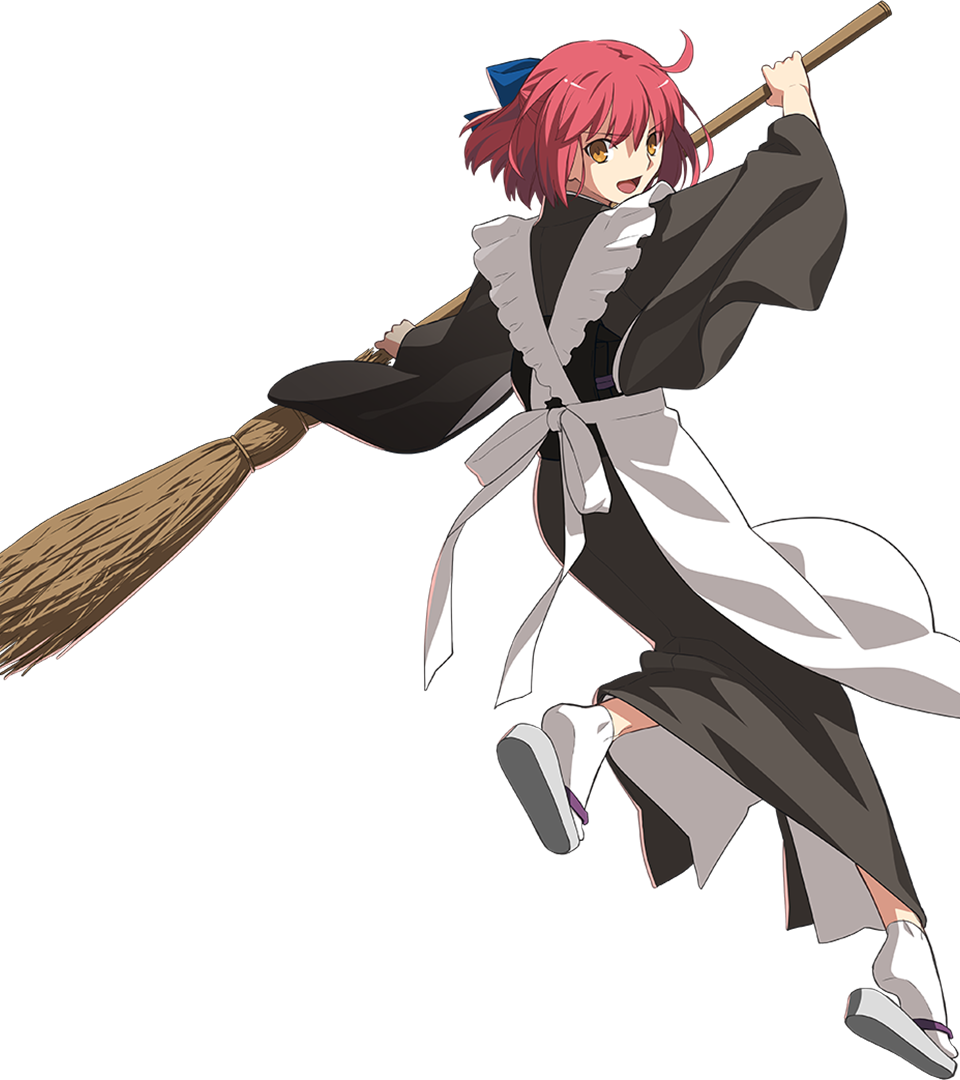
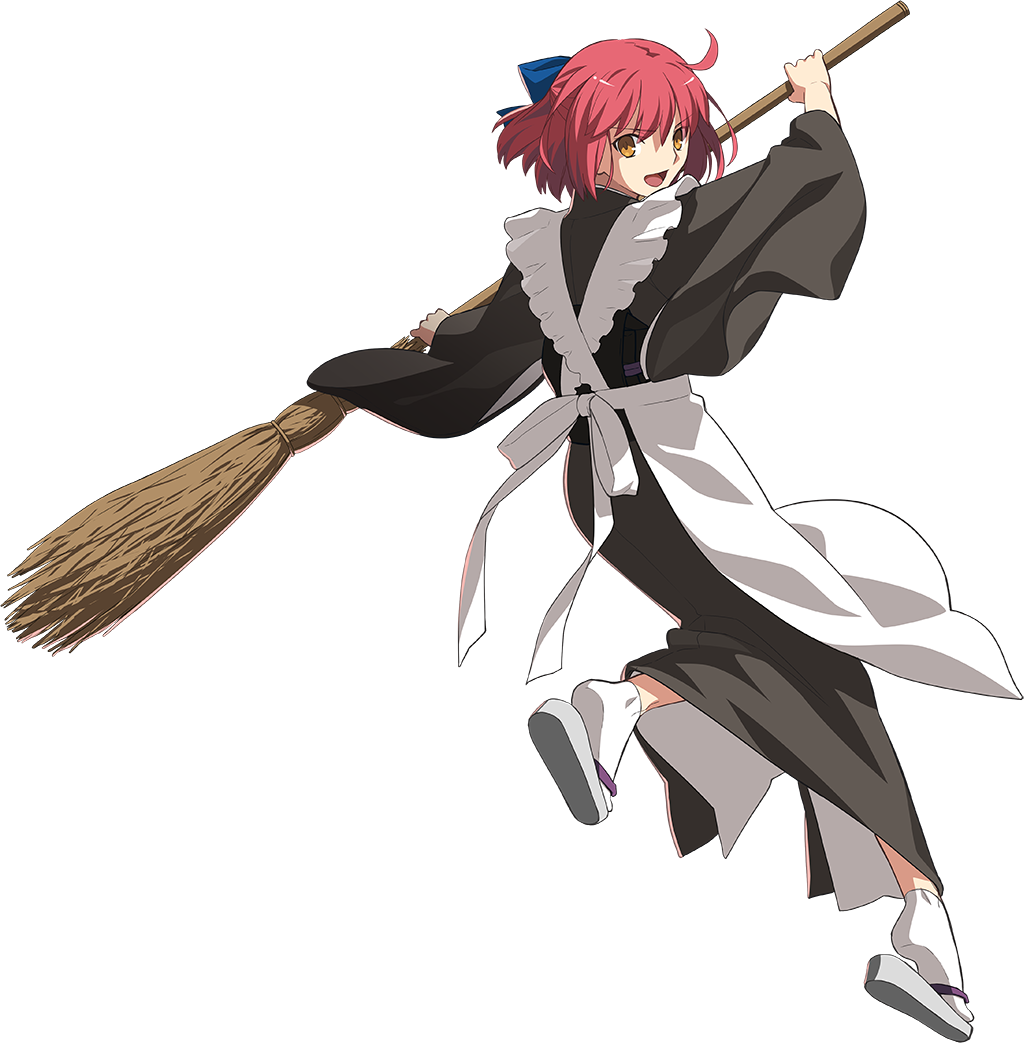
Changed MBTL full assets to use original resolution

diff --git a/utilities/generate_eyesights_dict/generate_eyesights_dict.py b/utilities/generate_eyesights_dict/generate_eyesights_dict.py
@@ -1,7 +1,7 @@
 import json
 import collections
 
-game_codename = "ggst"
+game_codename = "mbtl"
 
 config_path = f"../../games/{game_codename}/base_files/config.json"
 
